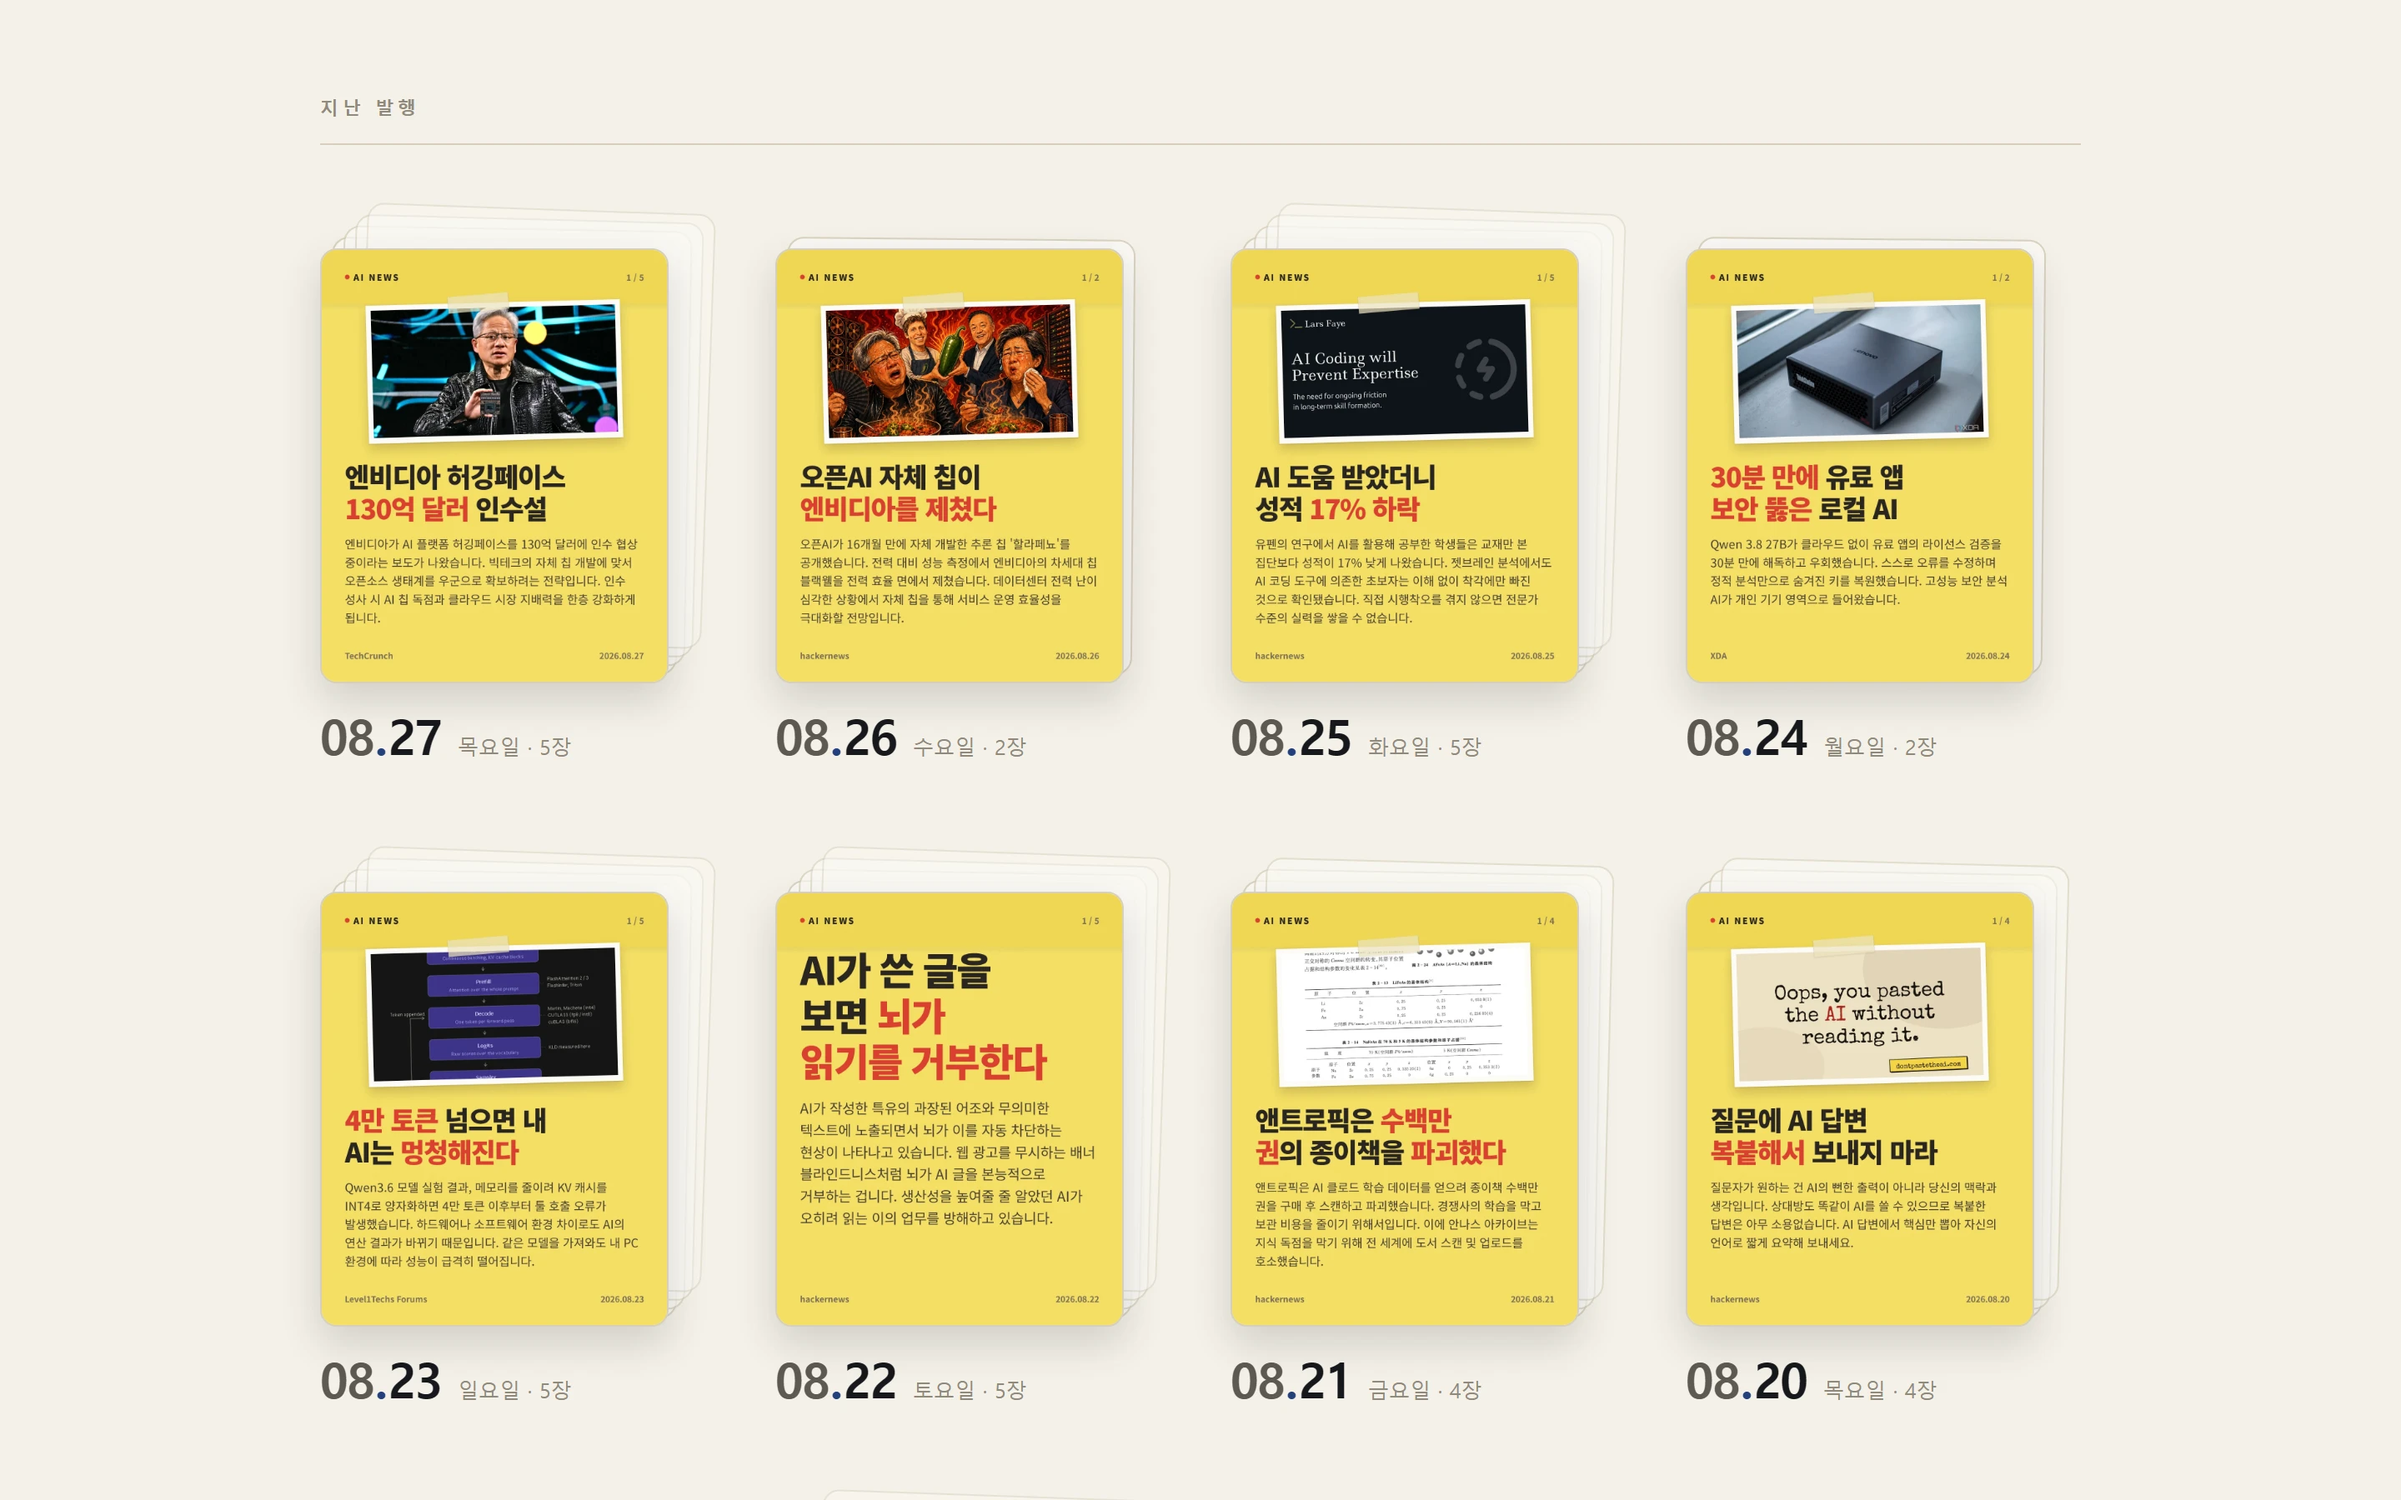
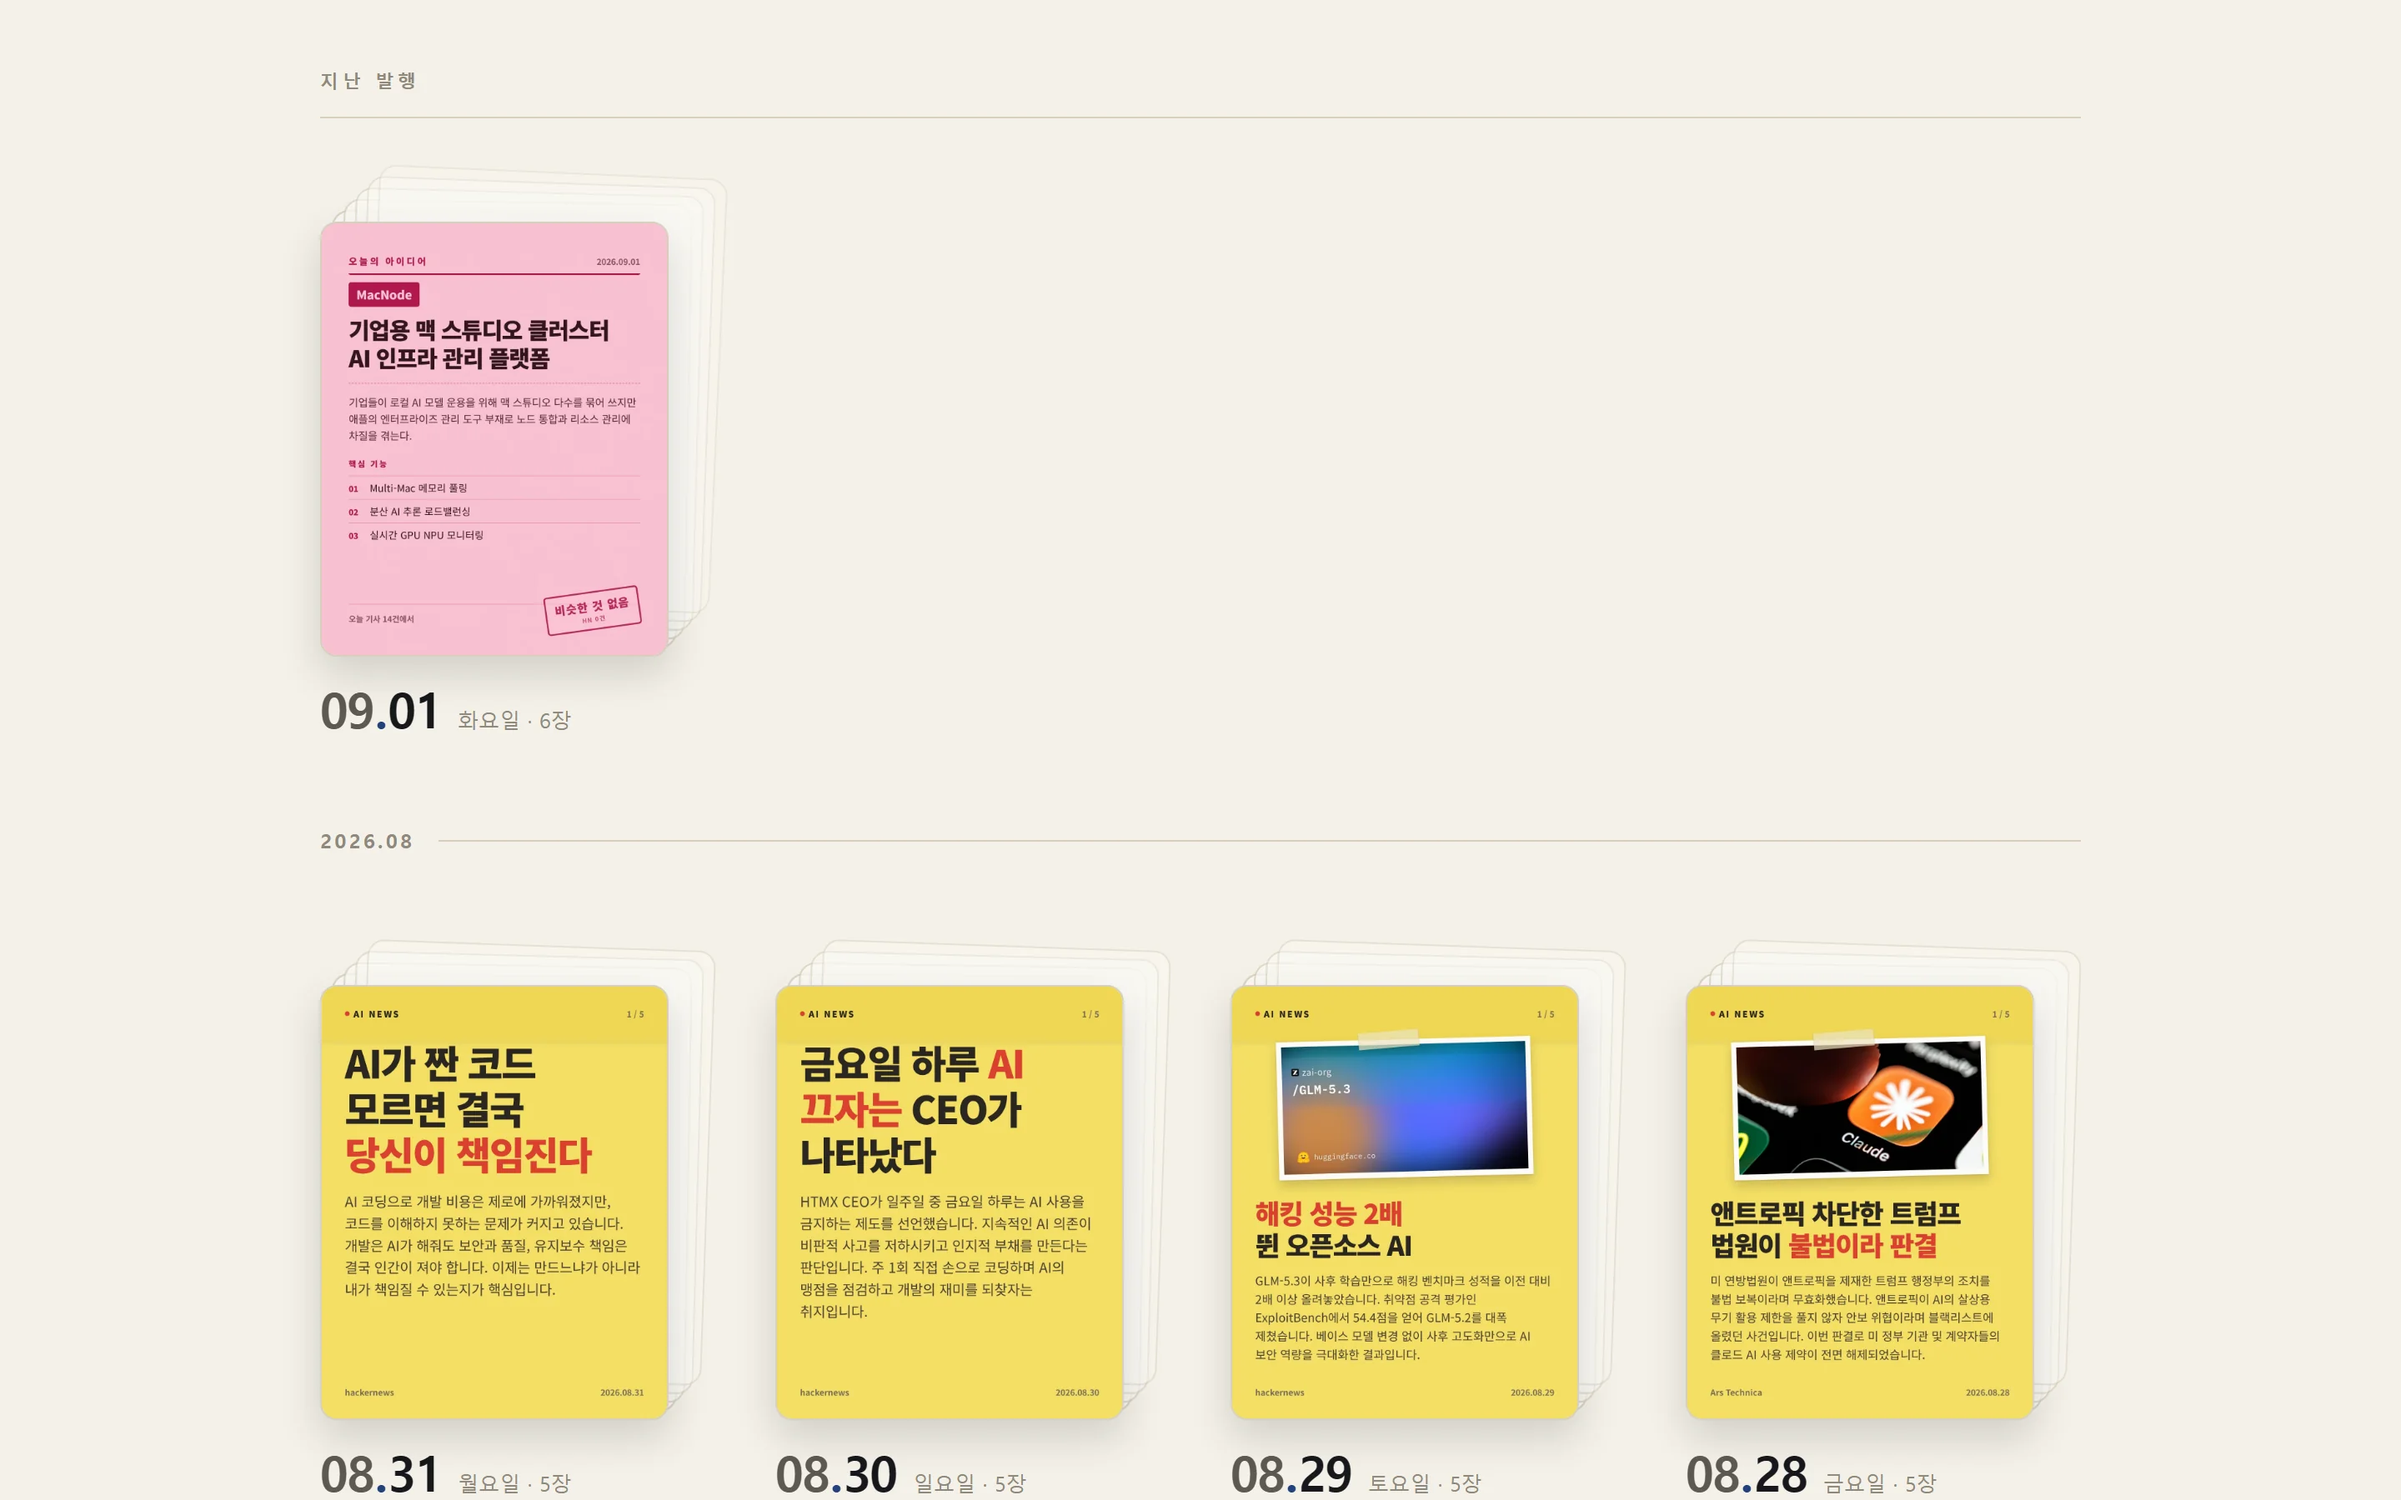
docs: README 캡처를 아이디어 카드 이후 화면으로
- 홈 히어로 · 아카이브 표지 둘 다 09-01 부터 분홍 아이디어 카드
- 머리의 발행분도 08-28 에서 09-01 로 — 아이디어 한 장이 빠져 있던 자리

diff --git a/README.md b/README.md
@@ -3,12 +3,12 @@
 > 매일 밤 · 수집부터 게시까지 **사람 손이 개입하지 않는** AI 뉴스 카드 파이프라인
 
 <p>
-  <img src="content/2026-08-28/cards/01.webp" width="215" alt="발행 카드 1">
-  <img src="content/2026-08-28/cards/02.webp" width="215" alt="발행 카드 2">
-  <img src="content/2026-08-28/cards/03.webp" width="215" alt="발행 카드 3">
+  <img src="content/2026-09-01/idea.webp" width="215" alt="오늘의 아이디어 카드">
+  <img src="content/2026-09-01/cards/01.webp" width="215" alt="발행 카드 1">
+  <img src="content/2026-09-01/cards/02.webp" width="215" alt="발행 카드 2">
 </p>
 
-<sub>2026-08-28 발행분 · 2026-07-26 이후 전량 → <b><a href="https://minky5004.github.io/ai-cards-news/">사이트</a></b></sub>
+<sub>2026-09-01 발행분 · 2026-07-26 이후 전량 → <b><a href="https://minky5004.github.io/ai-cards-news/">사이트</a></b></sub>
 
 <p>
   <img src="docs/screenshots/home.webp" width="430" alt="홈 — 오늘 발행 캐러셀">
